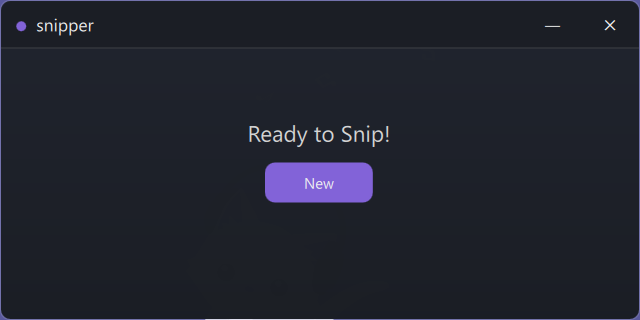
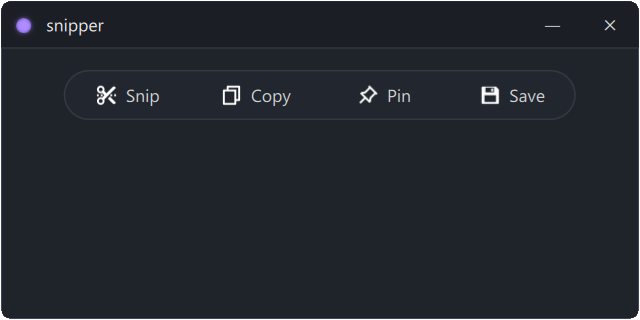
Add more visual gifs for README, Updated README

diff --git a/qml/Main.qml b/qml/Main.qml
@@ -60,7 +60,7 @@ ApplicationWindow {
         }
 
         function onCropSaved(croppedImageUrl) {
-            feedbackLabel.pulse("Saved crop", false);
+            feedbackLabel.pulse("Cached crop", false);
             titlebar.statusColor = Style.success;
 
             currentScreenshotUrl = croppedImageUrl
@@ -81,6 +81,22 @@ ApplicationWindow {
             console.error("ERROR: ", message);
             feedbackLabel.pulse(message, true);
             titlebar.statusColor = Style.failure;
+        }
+    }
+
+    FileDialog {
+        id: saveCropDialog
+
+        title: "Save Snip As"
+        fileMode: FileDialog.SaveFile
+        nameFilters: ["Image files (*.png *.jpg)", "All files (*)"]
+        defaultSuffix: "png"
+
+        onAccepted: {
+            SnipperManager.requestSaveCropAs(root.currentScreenshotUrl, saveCropDialog.selectedFile)
+
+            feedbackLabel.pulse("Saved!", false);
+            titlebar.statusColor = Style.success;
         }
     }
 
@@ -213,7 +229,7 @@ ApplicationWindow {
                     Layout.fillWidth: true
                     Layout.preferredWidth: 0
 
-                    onClicked: {}
+                    onClicked: if (root.currentScreenshotUrl != "") saveCropDialog.open();
                 }
             }
         }

diff --git a/src/snipper_manager.cpp b/src/snipper_manager.cpp
@@ -85,6 +85,32 @@ std::expected<void, QString> SnipperManager::copyToClipboard(const QUrl &imageSo
     return {};
 }
 
+std::expected<QUrl, QString> SnipperManager::saveCropAs(const QUrl &imageSource, const QUrl &userSelectedPath) {
+    if (imageSource.isEmpty())
+        return std::unexpected("Image source is missing");
+
+    if (userSelectedPath.isEmpty())
+        return std::unexpected("Destination path is invalid");
+
+    QString sourcePath = imageSource.toLocalFile();
+    QString destinationPath = userSelectedPath.toLocalFile();
+
+    QFile sourceFile(sourcePath);
+    if (!sourceFile.exists())
+        return std::unexpected("Source image doesn't exist");
+
+    if (QFile::exists(destinationPath)) {
+        // QFile::copy fails when overwriting, so lets remove the guy
+        if (!QFile::remove(destinationPath))
+            return std::unexpected("Couldn't overwrite existing file"); // epic fail
+    }
+
+    if (sourceFile.copy(destinationPath))
+        return QUrl::fromLocalFile(destinationPath);
+    else
+        return std::unexpected("Failed to save: " + sourceFile.errorString());
+}
+
 // == QML SIDE == //
 
 void SnipperManager::requestCaptureScreenshot(QQuickWindow *rootWindow) {
@@ -136,6 +162,24 @@ void SnipperManager::requestSaveCroppedRegion(const QUrl &imageSource, const QRe
     auto result = saveCroppedRegion(imageSource, cropRect, zoom);
     if (result)
         emit cropSaved(*result);
+    else
+        emit errorOccurred(result.error());
+}
+
+void SnipperManager::requestSaveCropAs(const QUrl &imageSource, const QUrl &userSelectedPath) {
+    if (imageSource.isEmpty()) {
+        emit errorOccurred("Can't save: invalid image source");
+        return;
+    }
+
+    if (userSelectedPath.isEmpty()) {
+        emit errorOccurred("Can't save: destination path is invalid");
+        return;
+    }
+
+    auto result = saveCropAs(imageSource, userSelectedPath);
+    if (result)
+        qDebug();
     else
         emit errorOccurred(result.error());
 }

diff --git a/src/snipper_manager.h b/src/snipper_manager.h
@@ -23,13 +23,13 @@ public:
     std::expected<QUrl, QString> captureScreenshot(QQuickWindow *rootWindow);
     std::expected<QUrl, QString> saveCroppedRegion(const QUrl &imageSource, const QRect &cropRect, qreal zoom);
     std::expected<void, QString> copyToClipboard(const QUrl &imageSource);
-    std::expected<QUrl, QString> saveCropAs(const QUrl &imageSource);
+    std::expected<QUrl, QString> saveCropAs(const QUrl &imageSource, const QUrl &userSelectedPath);
 
     // FOR QML !!
     Q_INVOKABLE void requestCaptureScreenshot(QQuickWindow *rootWindow);
     Q_INVOKABLE void requestCopyToClipboard(const QUrl &imageSource);
     Q_INVOKABLE void requestSaveCroppedRegion(const QUrl &imageSource, const QRect &cropRect, qreal zoom);
-    Q_INVOKABLE void requestSaveCropAs(const QUrl &imageSource);
+    Q_INVOKABLE void requestSaveCropAs(const QUrl &imageSource, const QUrl &userSelectedPath);
 
 signals:
     void screenshotCaptured(const QUrl &screenshotUrl);

diff --git a/README.md b/README.md
@@ -1,11 +1,11 @@
 # ✂ snipper
 A minimalist, useful and performant screen capture utility made with C++ and Qt QML.
 
-[View screenshots (no pun intended)](#-proof-of-concept)
+[View screenshots (no pun intended)](#-showcase)
 
 ## 🛠 Installation
 ### Requirements
-- C++20 compatible compiler
+- C++23 compatible compiler
 - CMake 3.16 or higher
 - Qt 6
 
@@ -25,6 +25,10 @@ Open the `snipper` folder in Qt Creator IDE to build and run the application.
 - Magnification
   - Scroll up/down while snipping
   - Save magnified snips
+- Floating pins
+  - Create floating stay-on-top snips
+  - *SOON:* opacity
+- Saving snips
 
 ## 💫 Planned features..
 - EasyOCR
@@ -34,14 +38,28 @@ Open the `snipper` folder in Qt Creator IDE to build and run the application.
 ## 🎯 Todo
 - [x] ~~Magnification~~
 - [x] ~~Copy to clipboard~~
-- [ ] Screenshot preview
+- [x] ~~Screenshot preview~~
+- [x] ~~Picture-in-picture windows~~
+- [x] ~~Save As functionality~~
+- [ ] Settings for customizability
+- [ ] Floating toolbar in snipping mode
 
 ## 🌄 Showcase
+### snipper UI
 <div align="center">
-    <img width="512" height="256" src="https://github.com/user-attachments/assets/446c4d21-206b-4ea6-ba1d-2c158d7867e3">
-    <p>A small glimpse with regards to user interface</p>
+    <img width="512" height="256" src="docs/screenshots/snipper_demo_ui.png">
 </div>
 <div align="center">
-    <img width="400" height="400" src="docs/screenshots/snipper_demo.gif">
-    <p>Region capture + magnification</p>
+    <img width="512" height="256" src="docs/screenshots/failure.gif">
+</div>
+
+### Snipping and magnification
+<div align="center">
+    <img width="342" height="342" src="docs/screenshots/snipping_magnification.gif">
+</div>
+
+### Creating pinnable images
+<div align="center">
+    <img width="542" height="305" src="docs/screenshots/pin.gif">
+    <p><i>right click to remove</i></p>
 </div>
